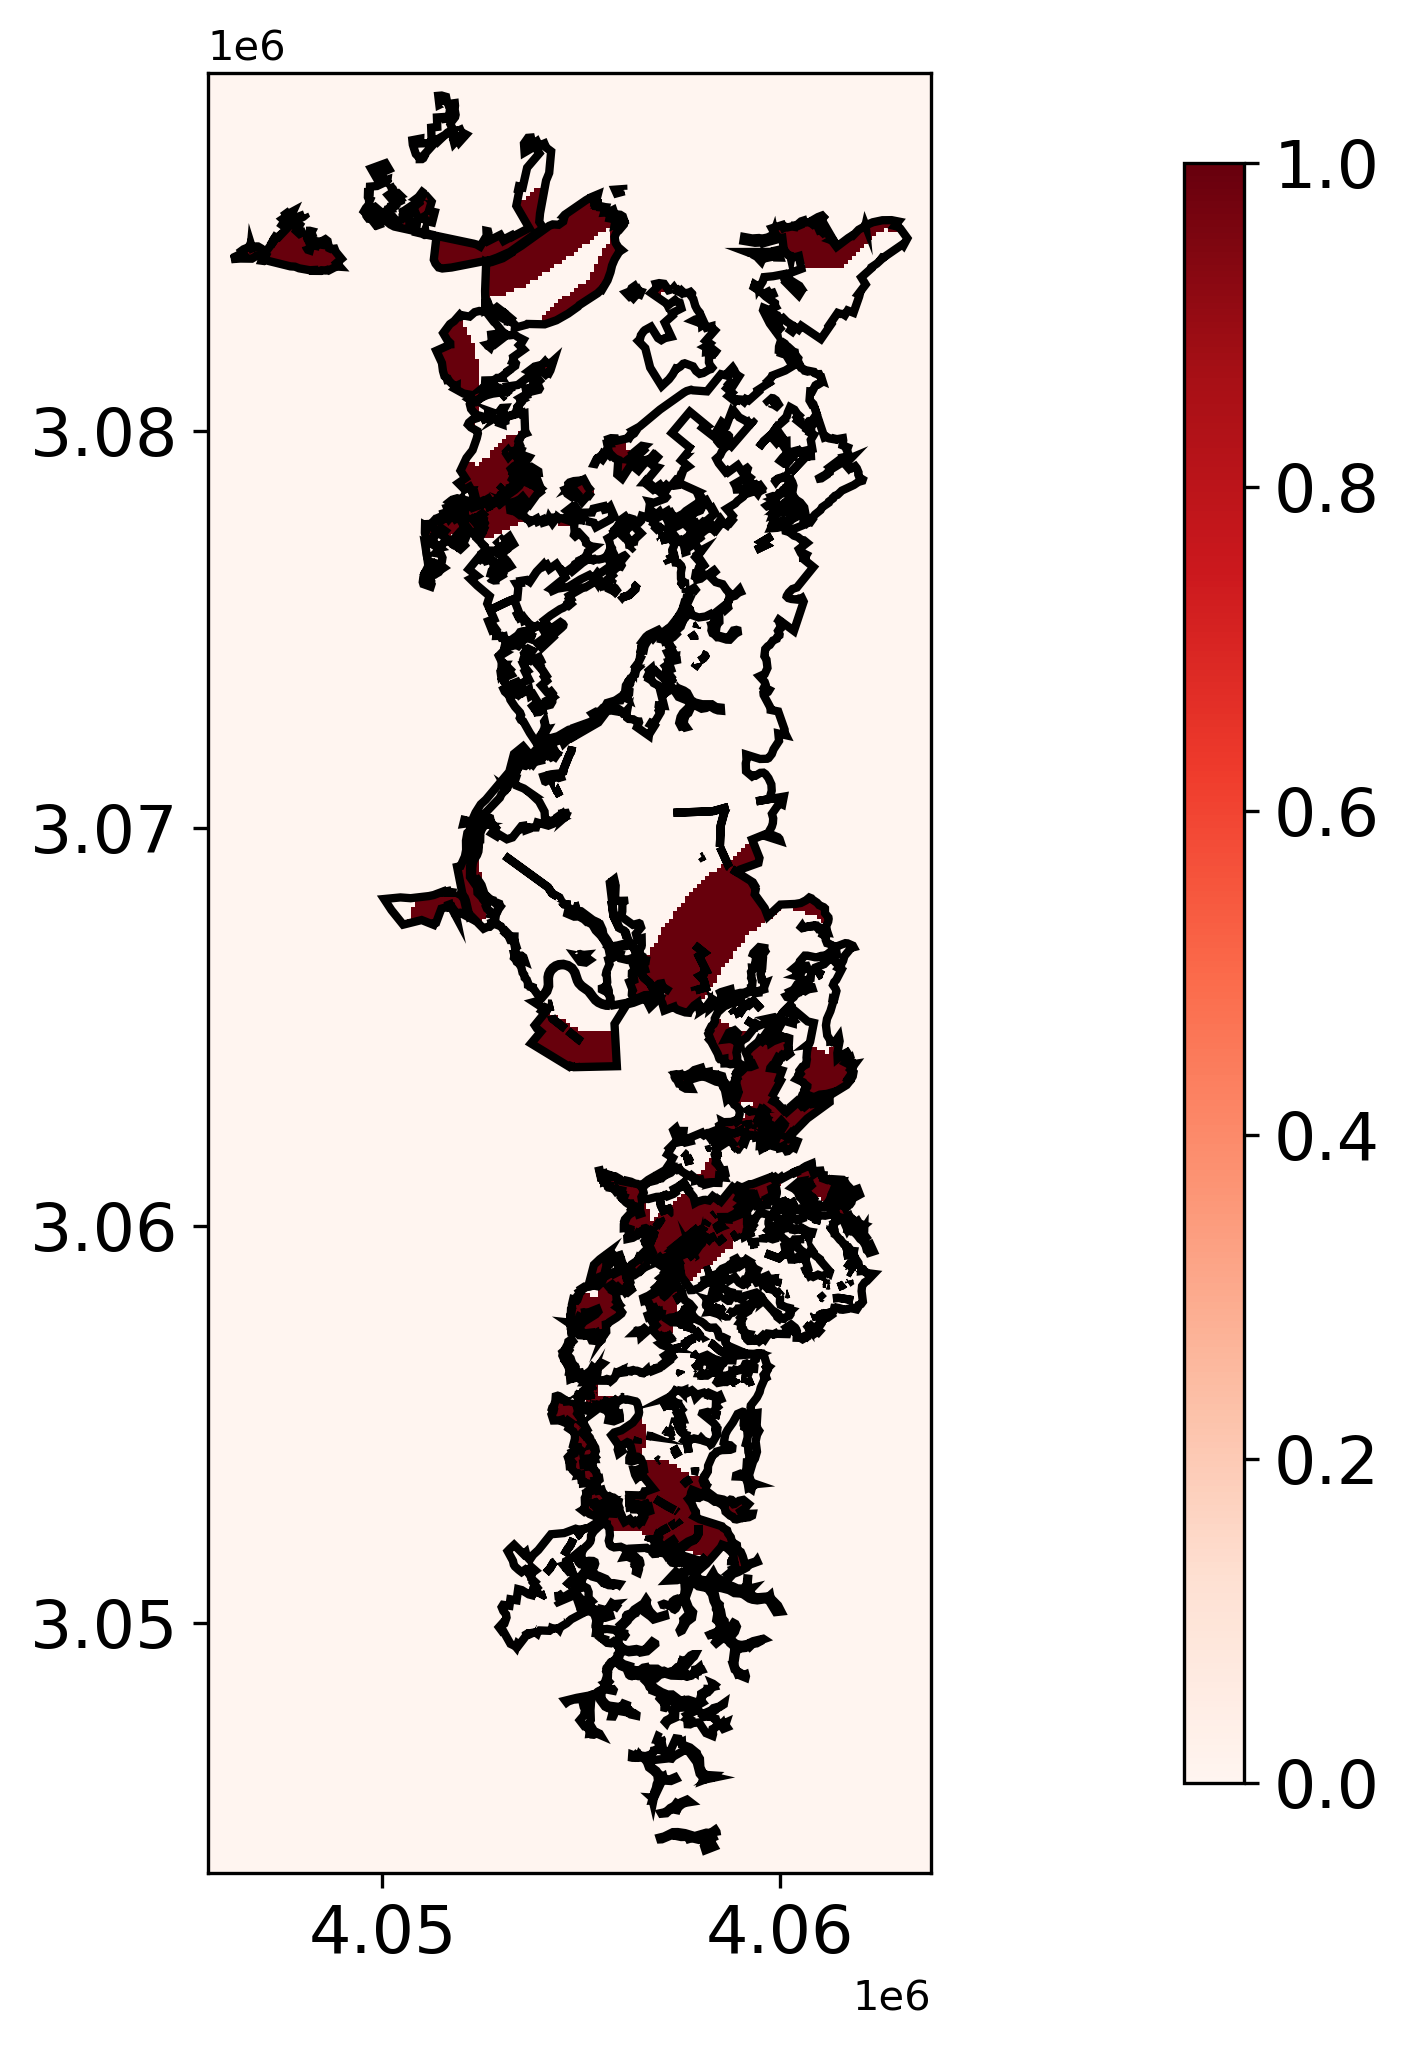
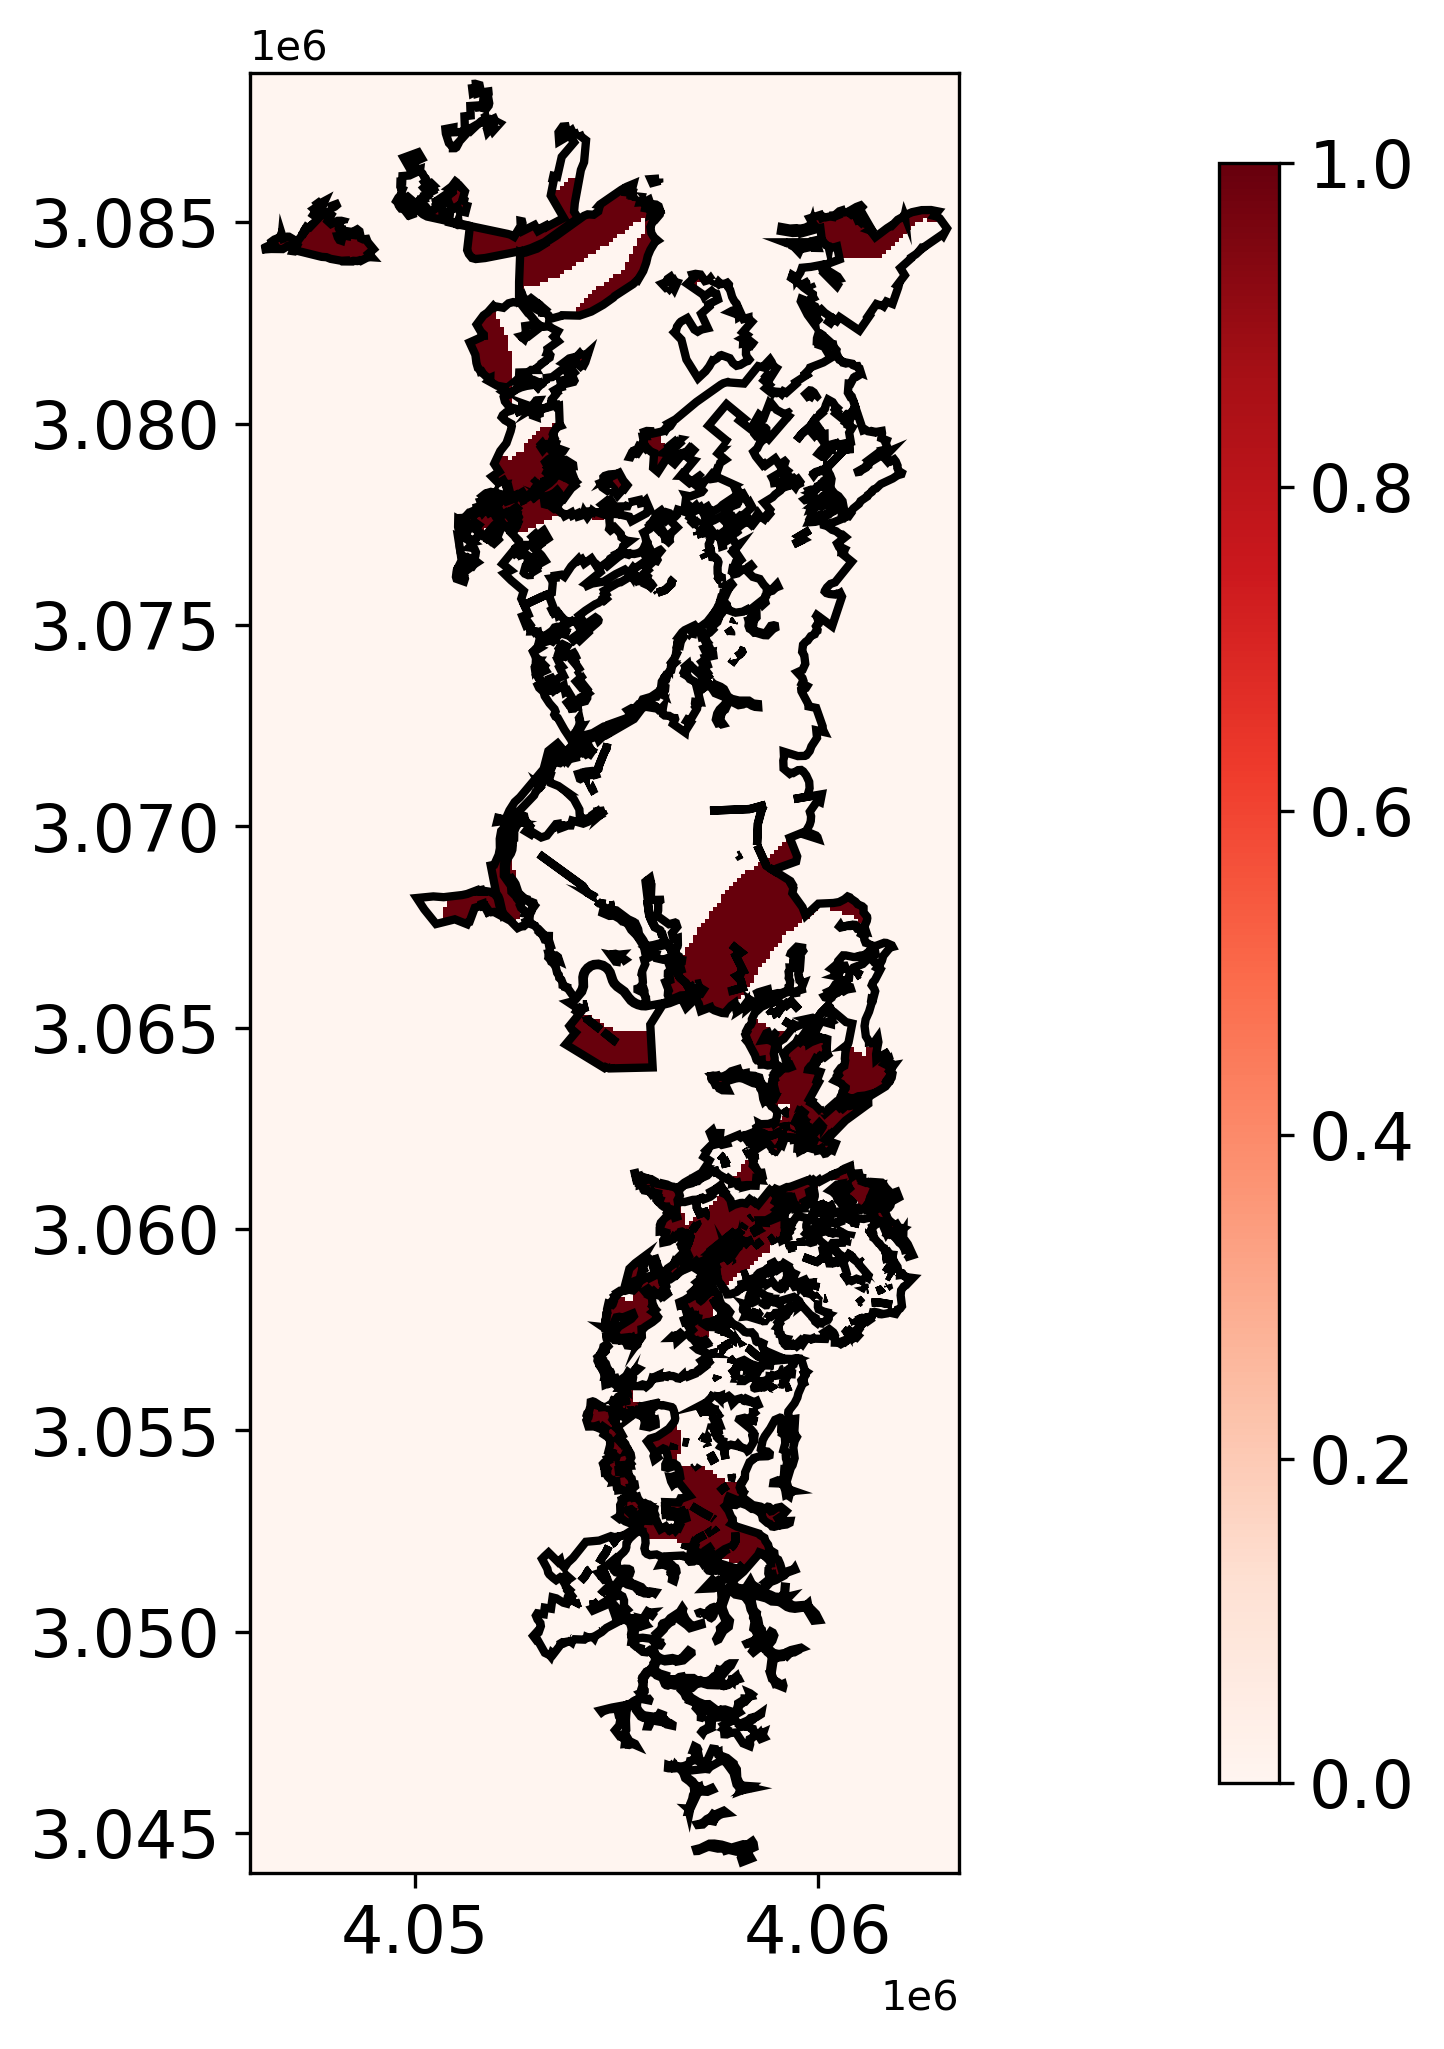
added padextent

diff --git a/deletme_create_prior/create_priors_0.py b/deletme_create_prior/create_priors_0.py
@@ -96,7 +96,6 @@ def evaluate_area_by_proximity(Area_path, target_tif, where=None, output_dir=Non
 
     # get target raster information
     info = gk.raster.rasterInfo(target_tif)
-
     srs_raster = info.srs
     pixel_res = abs(info.pixelWidth)
 
@@ -120,7 +119,7 @@ def evaluate_area_by_proximity(Area_path, target_tif, where=None, output_dir=Non
                                  pixelRes=pixel_res,
                                  where=where,
                                  limitOne=False, 
-                                # padExtent=max(thresholds)
+                                 padExtent=max(thresholds)
                                  ) 
 
         print(f"Target Raster SRS {srs_raster} and pixe size {pixel_res} is set for area shapes region mask")
@@ -171,6 +170,18 @@ def evaluate_area_by_proximity(Area_path, target_tif, where=None, output_dir=Non
     print("Region masks shape:")
     print("reg shape:", reg.mask.shape)
 
+    # unit_raster = srs_raster.GetLinearUnitsName()
+    # # Check rather SRS is in meter, else abort
+    # if unit_raster.lower() in ["metre", "meter"]:
+    #     print(
+    #         f"Raster SRS is used as the default for evaluation. "
+    #         f"The raster SRS unit is '{unit_raster}'."
+    #     )
+    # else:
+    #     raise ValueError(
+    #         f"Raster SRS has to be in metre. "
+    #         f"The current unit is '{unit_raster}'. Analysis is aborted."
+    #     )
 
 
 
@@ -208,9 +219,9 @@ def evaluate_area_by_proximity(Area_path, target_tif, where=None, output_dir=Non
         e.yMax < r[1] or
         e.yMin > r[3]
     )
-
     print("Overlap:", overlap)
-
+    
+    # check rather values are in range
     arr = reg.warp(target_tif, resampleAlg="near") 
     inside = arr[reg.mask.astype(bool)] 
     print("The following raster values are available in within your target area:") 
@@ -230,7 +241,7 @@ def evaluate_area_by_proximity(Area_path, target_tif, where=None, output_dir=Non
     )
     
 def evaluate_area_by_threshold(Area_path, #area to analyze
-                              tif_file, #tif file to analyze
+                              target_tif, #tif file to analyze
                               where=None, #set the polygon or cell values that define th area
                               output_dir=None,
                               evaluation_name= None,
@@ -292,10 +303,14 @@ def evaluate_area_by_threshold(Area_path, #area to analyze
     if suffix == ".shp":
         # Make Region Mask
         print("loading area shape file")
-        reg = gk.RegionMask.load(region=Area_path, where=where, padExtent=500, limitOne=False) 
-        #Area_path = shapefile path
-        #where = attribute feature
-        #padExtent = buffer
+        reg = gk.RegionMask.fromVector(Area_path, 
+                                 srs=srs_raster, #srs from target raster
+                                 pixelRes=pixel_res,
+                                 where=where,
+                                 limitOne=False, 
+                                 padExtent=max(thresholds)
+                                 ) 
+        print(f"Target Raster SRS {srs_raster} and pixe size {pixel_res} is set for area shapes region mask")
         
     elif suffix in (".tif", ".tiff"):
         print("loading area tif file")
@@ -308,7 +323,10 @@ def evaluate_area_by_threshold(Area_path, #area to analyze
         # create vector from raster and then egionmask from vector
         vector_1 = gk.raster.polygonizeRaster(ras_boolean)
         vector_2 = gk.vector.createVector(vector_1)
-        reg = gk.RegionMask.fromVector(vector_2, limitOne=False, padExtent=500)
+        reg = gk.RegionMask.fromVector(vector_2, 
+                                       limitOne=False, 
+                                       padExtent=max(thresholds)
+                                       )
 
     else:
         raise TypeError("Area must be a string ending with .tiff/.tif/.shp.")
@@ -321,6 +339,19 @@ def evaluate_area_by_threshold(Area_path, #area to analyze
     print("reg extent:", reg.extent)
     print("Region masks shape:")
     print("reg shape:", reg.mask.shape)
+
+    unit_raster = srs_raster.GetLinearUnitsName()
+    # Check rather SRS is in meter, else abort
+    if unit_raster.lower() in ["metre", "meter"]:
+        print(
+            f"Raster SRS is used as the default for evaluation. "
+            f"The raster SRS unit is '{unit_raster}'."
+        )
+    else:
+        raise ValueError(
+            f"Raster SRS has to be in metre. "
+            f"The current unit is '{unit_raster}'. Analysis is aborted."
+        )
 
 
     # 2. safety check -> is there an overlap between areas
@@ -349,12 +380,14 @@ def evaluate_area_by_threshold(Area_path, #area to analyze
 
     print("Overlap:", overlap)
 
+
+
     arr = reg.warp(target_tif, resampleAlg="near") 
     inside = arr[reg.mask.astype(bool)] 
     print("The following raster values are available in within your target area:") 
     unique, counts = np.unique(inside, return_counts=True) 
     for v, c in zip(unique, counts): print(v, c)
-    #print (f"Please make sure that at least one of these values is selected by your raster target values: {raster_target_value}")
+    print (f"Please make sure that your thresholds of: {thresholds} matches the range of values in your target region")
 
 
     # 3. Calculate the threshold
@@ -595,14 +628,14 @@ EVALUATIONS = {
         "description": "Indicates pixels in which the average daily direct-normal irradiance (DNI) is less-than or equal-to X kWh/m2/day",
         "source": "",
         "thresholds": [
-            0, 5, 10, 20, 50, 100, 200, 300, 400,
+            0, 5, 10, 20, 50, 100, 200, #300, 400
             ],  # example values
     },
 }
 
 ## TESTING
 
-# Area_path = "/fast/home/l-madeisky/models_IEK_3/IEK3_Models/glaes_2026/glaes/deletme_create_prior/input/CDDA_aachenClipped.shp"
+Area_path = "/fast/home/l-madeisky/models_IEK_3/IEK3_Models/glaes_2026/glaes/deletme_create_prior/input/CDDA_aachenClipped.shp"
 # Area_path_tif = "/fast/home/l-madeisky/models_IEK_3/IEK3_Models/glaes_2026/glaes/deletme_create_prior/input/aachen_srs_3035.tif"
 target_tif ="/fast/home/l-madeisky/models_IEK_3/IEK3_Models/glaes_2026/glaes/deletme_create_prior/input/roads_prior_clip.tif"
 
@@ -617,14 +650,14 @@ target_tif ="/fast/home/l-madeisky/models_IEK_3/IEK3_Models/glaes_2026/glaes/del
 # )
 
 
-# evaluate_area_by_proximity(          
-#     Area_path="/fast/home/l-madeisky/models_IEK_3/IEK3_Models/glaes_2026/glaes/glaes/test/data/CDDA_aachenClipped.shp",
-#     evaluation_name= "agriculture_proximity",
-#     where="SITE_CODE=555558604",
-#     target_tif="/fast/home/l-madeisky/models_IEK_3/IEK3_Models/glaes_2026/glaes/deletme_create_prior/input/roads_prior_clip.tif",
-#     raster_target_value=[10, 7, 21], 
-#     output_dir = str(base_path/"output/proximity/with_shape/")
-# )
+evaluate_area_by_proximity(          
+    Area_path="/fast/home/l-madeisky/models_IEK_3/IEK3_Models/glaes_2026/glaes/glaes/test/data/CDDA_aachenClipped.shp",
+    evaluation_name= "agriculture_proximity",
+    #where="SITE_CODE=555558604",
+    target_tif="/fast/home/l-madeisky/models_IEK_3/IEK3_Models/glaes_2026/glaes/deletme_create_prior/input/roads_prior_clip.tif",
+    raster_target_value=[10, 7, 21], 
+    output_dir = str(base_path/"output/proximity/with_shape/")
+)
 
 
 
@@ -640,20 +673,20 @@ target_tif ="/fast/home/l-madeisky/models_IEK_3/IEK3_Models/glaes_2026/glaes/del
 
 
 #wtih shape
-evaluate_area_by_threshold(           
-    Area_path="/fast/home/l-madeisky/models_IEK_3/IEK3_Models/glaes_2026/glaes/glaes/test/data/CDDA_aachenClipped.shp",
-    evaluation_name="dni_threshold",
-    #where="SITE_CODE=555558689",
-    where=None, 
-    tif_file=target_tif,
-    output_dir = str(base_path/"output/threshold/with_shape/")
-)
+# evaluate_area_by_threshold(           
+#     Area_path="/fast/home/l-madeisky/models_IEK_3/IEK3_Models/glaes_2026/glaes/glaes/test/data/CDDA_aachenClipped.shp",
+#     evaluation_name="dni_threshold",
+#     #where="SITE_CODE=555558689",
+#     where=None, 
+#     target_tif="/fast/home/l-madeisky/models_IEK_3/IEK3_Models/glaes_2026/glaes/deletme_create_prior/input/roads_prior_clip.tif",
+#     output_dir = str(base_path/"output/threshold/with_shape/")
+# )
 
 # # with tif
 # evaluate_area_by_threshold(           
 #     Area=Area_path_tif,
 #     evaluation_name="dni_threshold",
 #     where=None,
-#     tif_file=target_tif,
+#     target_tif=target_tif,
 #     output_dir = str(base_path/"output/threshold/with_tif/")
 # )
